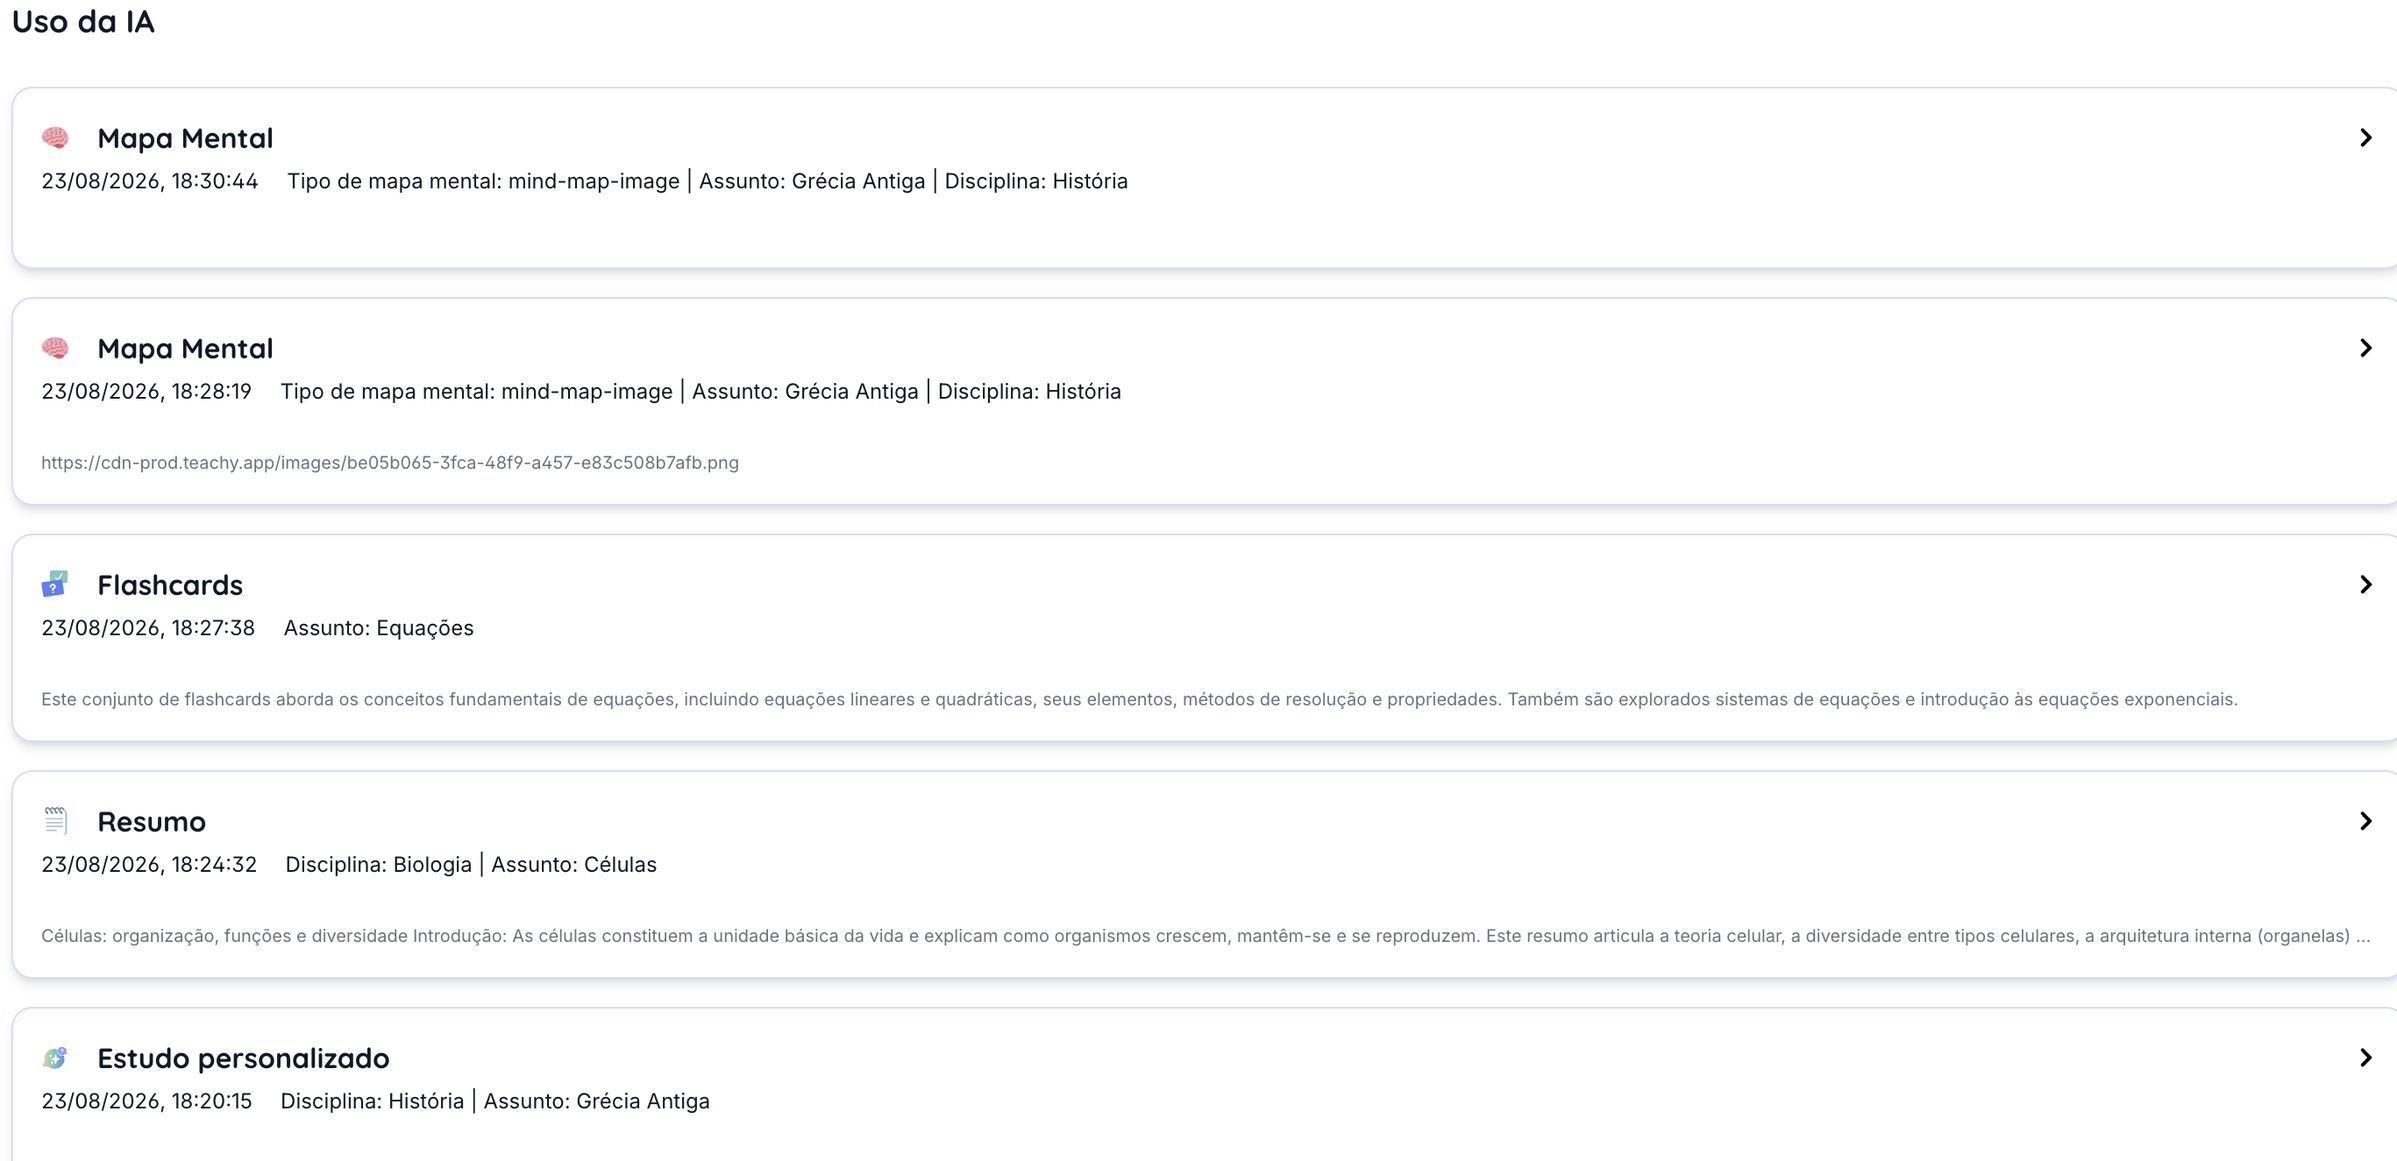
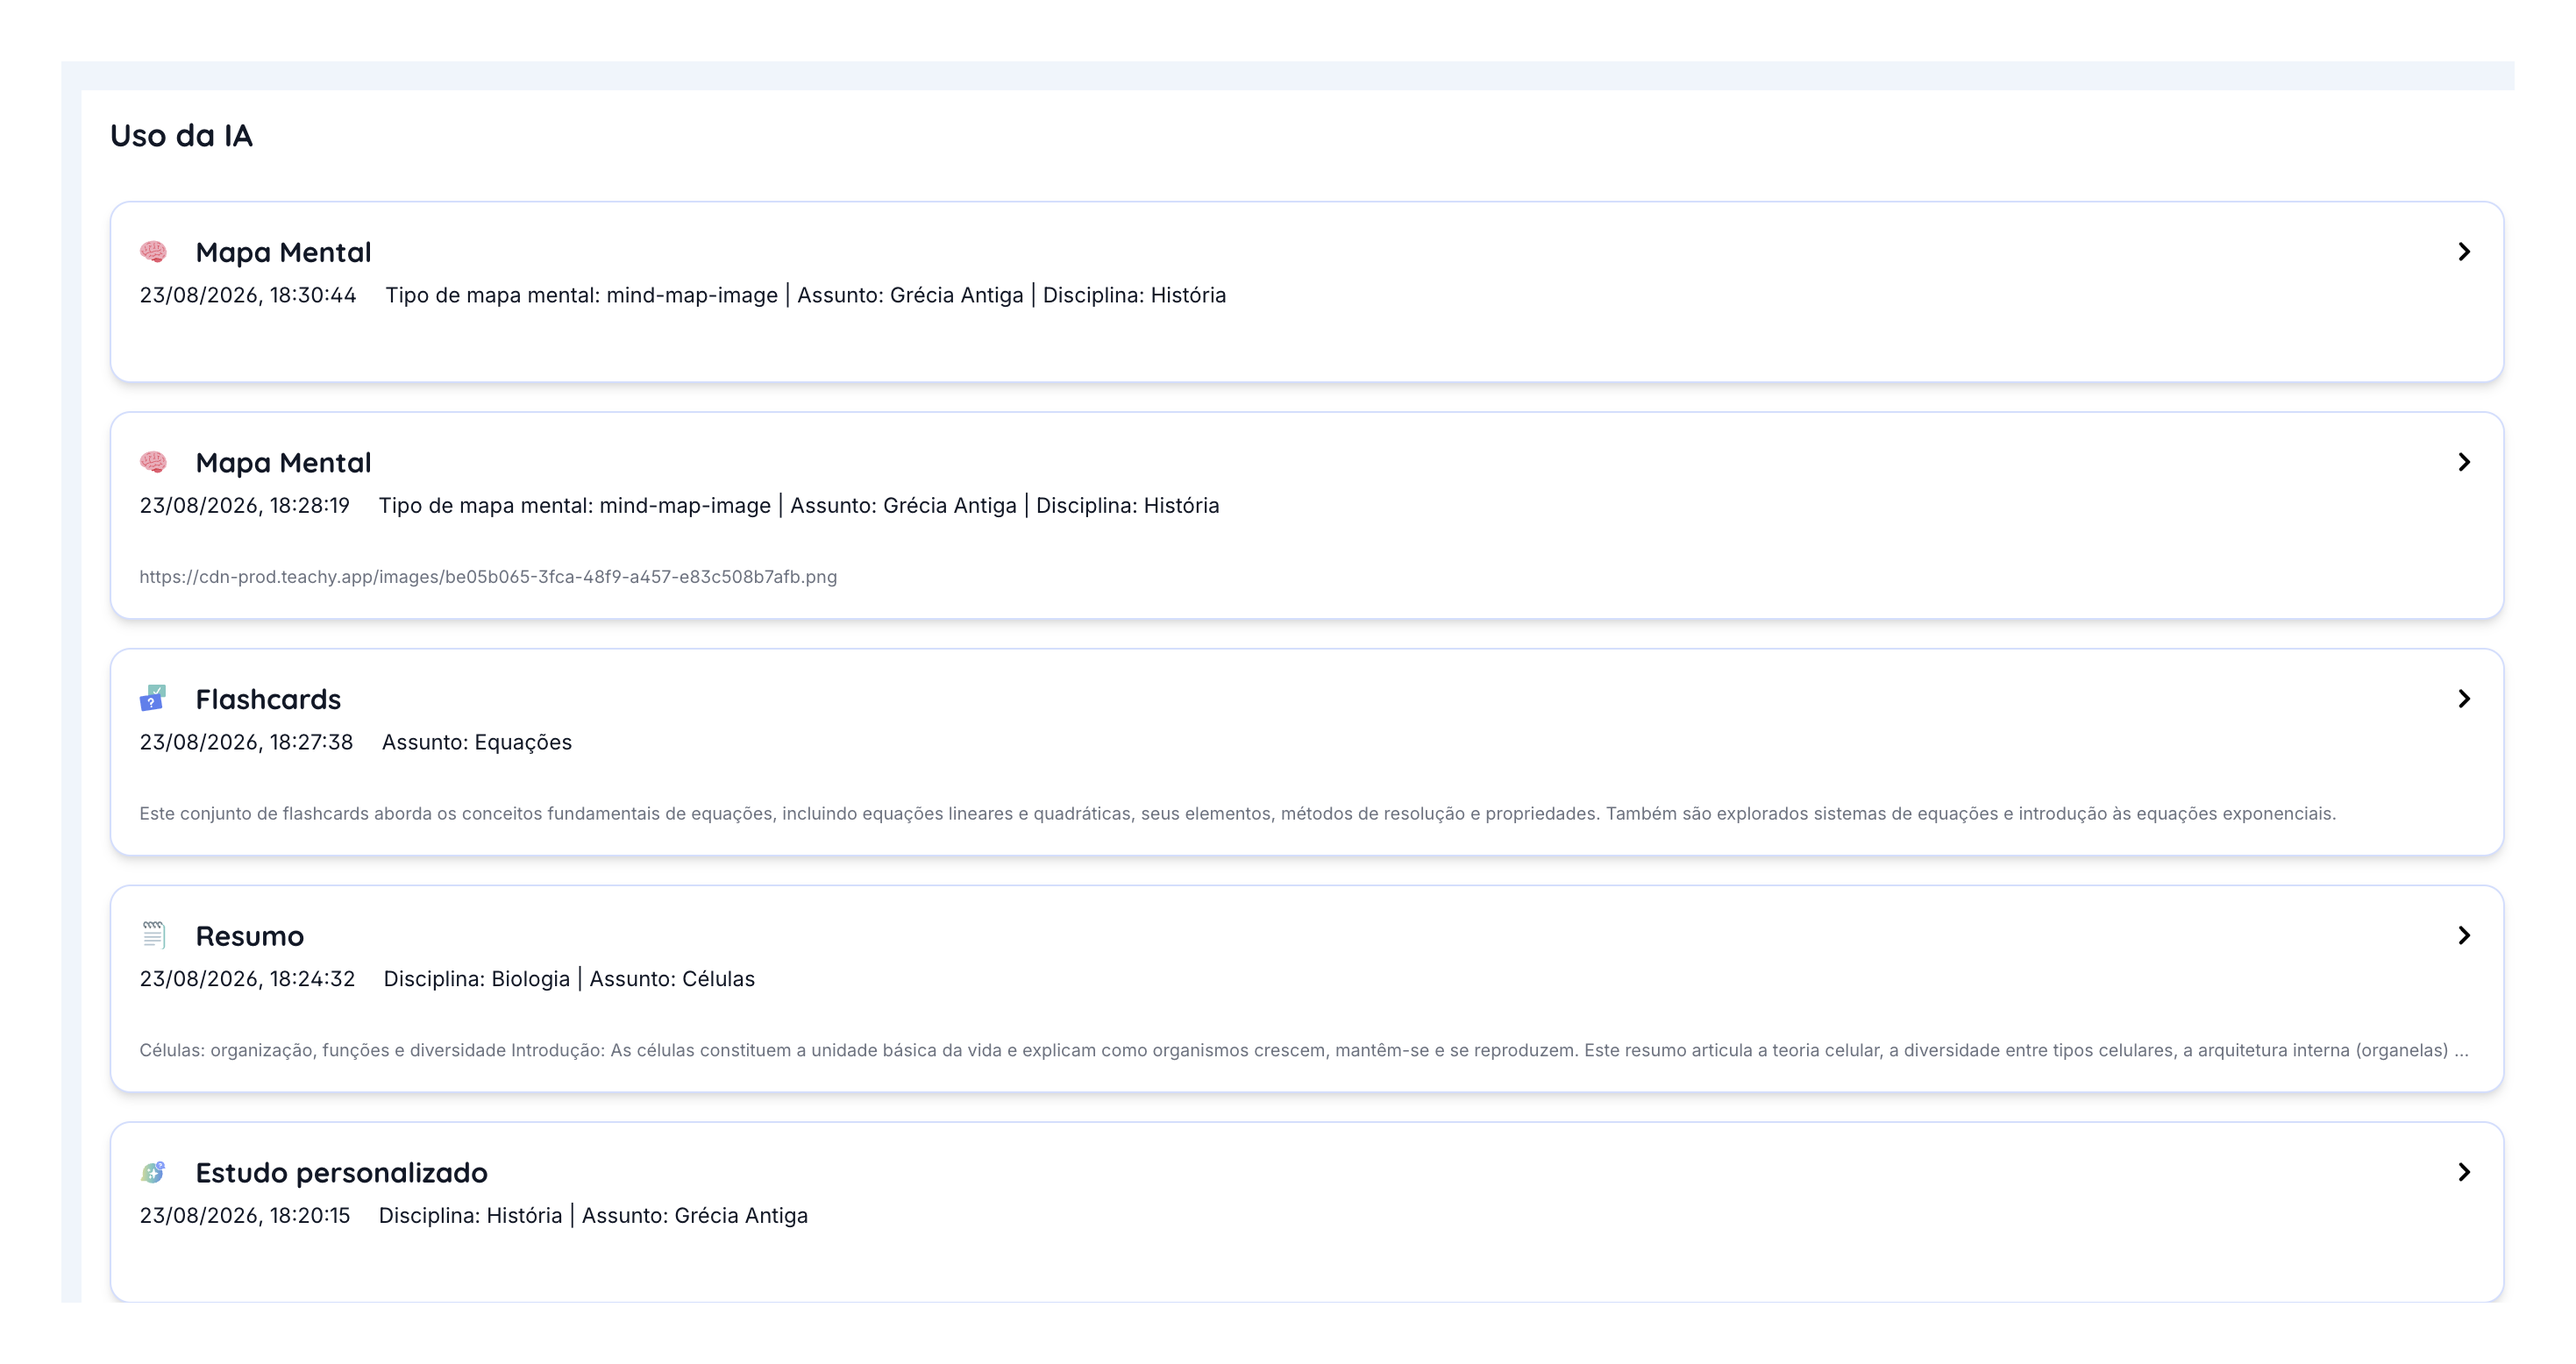
Respiro na tela de Uso da IA e corrige especificidade das legendas

diff --git a/index.html b/index.html
@@ -24,7 +24,7 @@ body{margin:0}
 
 /* visual do hero: tela de produto flutuando */
 .ent-hero-tela{position:relative;flex-direction:column;width:100%;margin:0}
-.ent-hero-tela figcaption{margin:22px 0 0;font:600 13.5px var(--lpm-font-body);color:var(--lpm-texto-claro-2);text-align:center}
+.lpm .ent-hero-tela figcaption{margin:22px 0 0;font:600 13.5px var(--lpm-font-body);color:var(--lpm-texto-claro-2);text-align:center}
 /* as duas telas de insights, empilhadas e levemente inclinadas */
 .ent-telas{display:flex;flex-direction:column;gap:18px;width:100%}
 .ent-telas img{width:100%;border-radius:14px;border:1px solid rgba(255,255,255,.14);background:#fff;box-shadow:0 30px 64px -26px rgba(3,12,28,.62),0 10px 24px -14px rgba(3,12,28,.45)}
@@ -43,7 +43,7 @@ body{margin:0}
 /* tela em largura cheia */
 .ent-tela-larga{margin-top:52px}
 .ent-tela-larga img{width:100%;border-radius:16px;border:1px solid var(--lpm-borda);background:#fff;box-shadow:0 28px 60px -26px color-mix(in srgb,var(--lpm-navy) 38%,transparent)}
-.ent-legenda{margin:22px 0 0;text-align:center;font:500 14.5px var(--lpm-font-body);color:var(--lpm-tinta-suave)}
+.lpm .ent-legenda{margin:34px 0 0;text-align:center;font:500 14.5px var(--lpm-font-body);color:var(--lpm-tinta-suave)}
 /* gamificação */
 .ent-gami{display:grid;gap:26px;margin-top:52px}
 @media(min-width:1024px){.ent-gami{grid-template-columns:minmax(0,1.3fr) minmax(0,.7fr);align-items:center;gap:36px}}
@@ -83,7 +83,7 @@ body{margin:0}
 @media(min-width:900px){.ent-duo{grid-template-columns:1fr 1fr;gap:26px}}
 .ent-card{background:#fff;border:1px solid var(--lpm-borda);border-radius:18px;padding:22px 24px;box-shadow:0 16px 40px -26px color-mix(in srgb,var(--lpm-navy) 30%,transparent)}
 .ent-card__t{font:700 17px var(--lpm-font-display);color:var(--lpm-navy)}
-.ent-card__s{font-size:13px;color:var(--lpm-tinta-suave);margin-top:3px}
+.lpm .ent-card__s{font-size:13px;color:var(--lpm-tinta-suave);margin-top:3px}
 .ent-passos{margin-top:16px;display:flex;flex-direction:column;gap:8px}
 .ent-passo{display:flex;align-items:center;gap:10px;font-size:14px;color:var(--lpm-tinta-suave);background:var(--lpm-gelo);border-radius:10px;padding:11px 13px}
 .ent-passo b{width:20px;height:20px;border-radius:6px;background:var(--lpm-vivo);color:#fff;display:grid;place-items:center;font:700 11px var(--lpm-font-display);flex:none}
